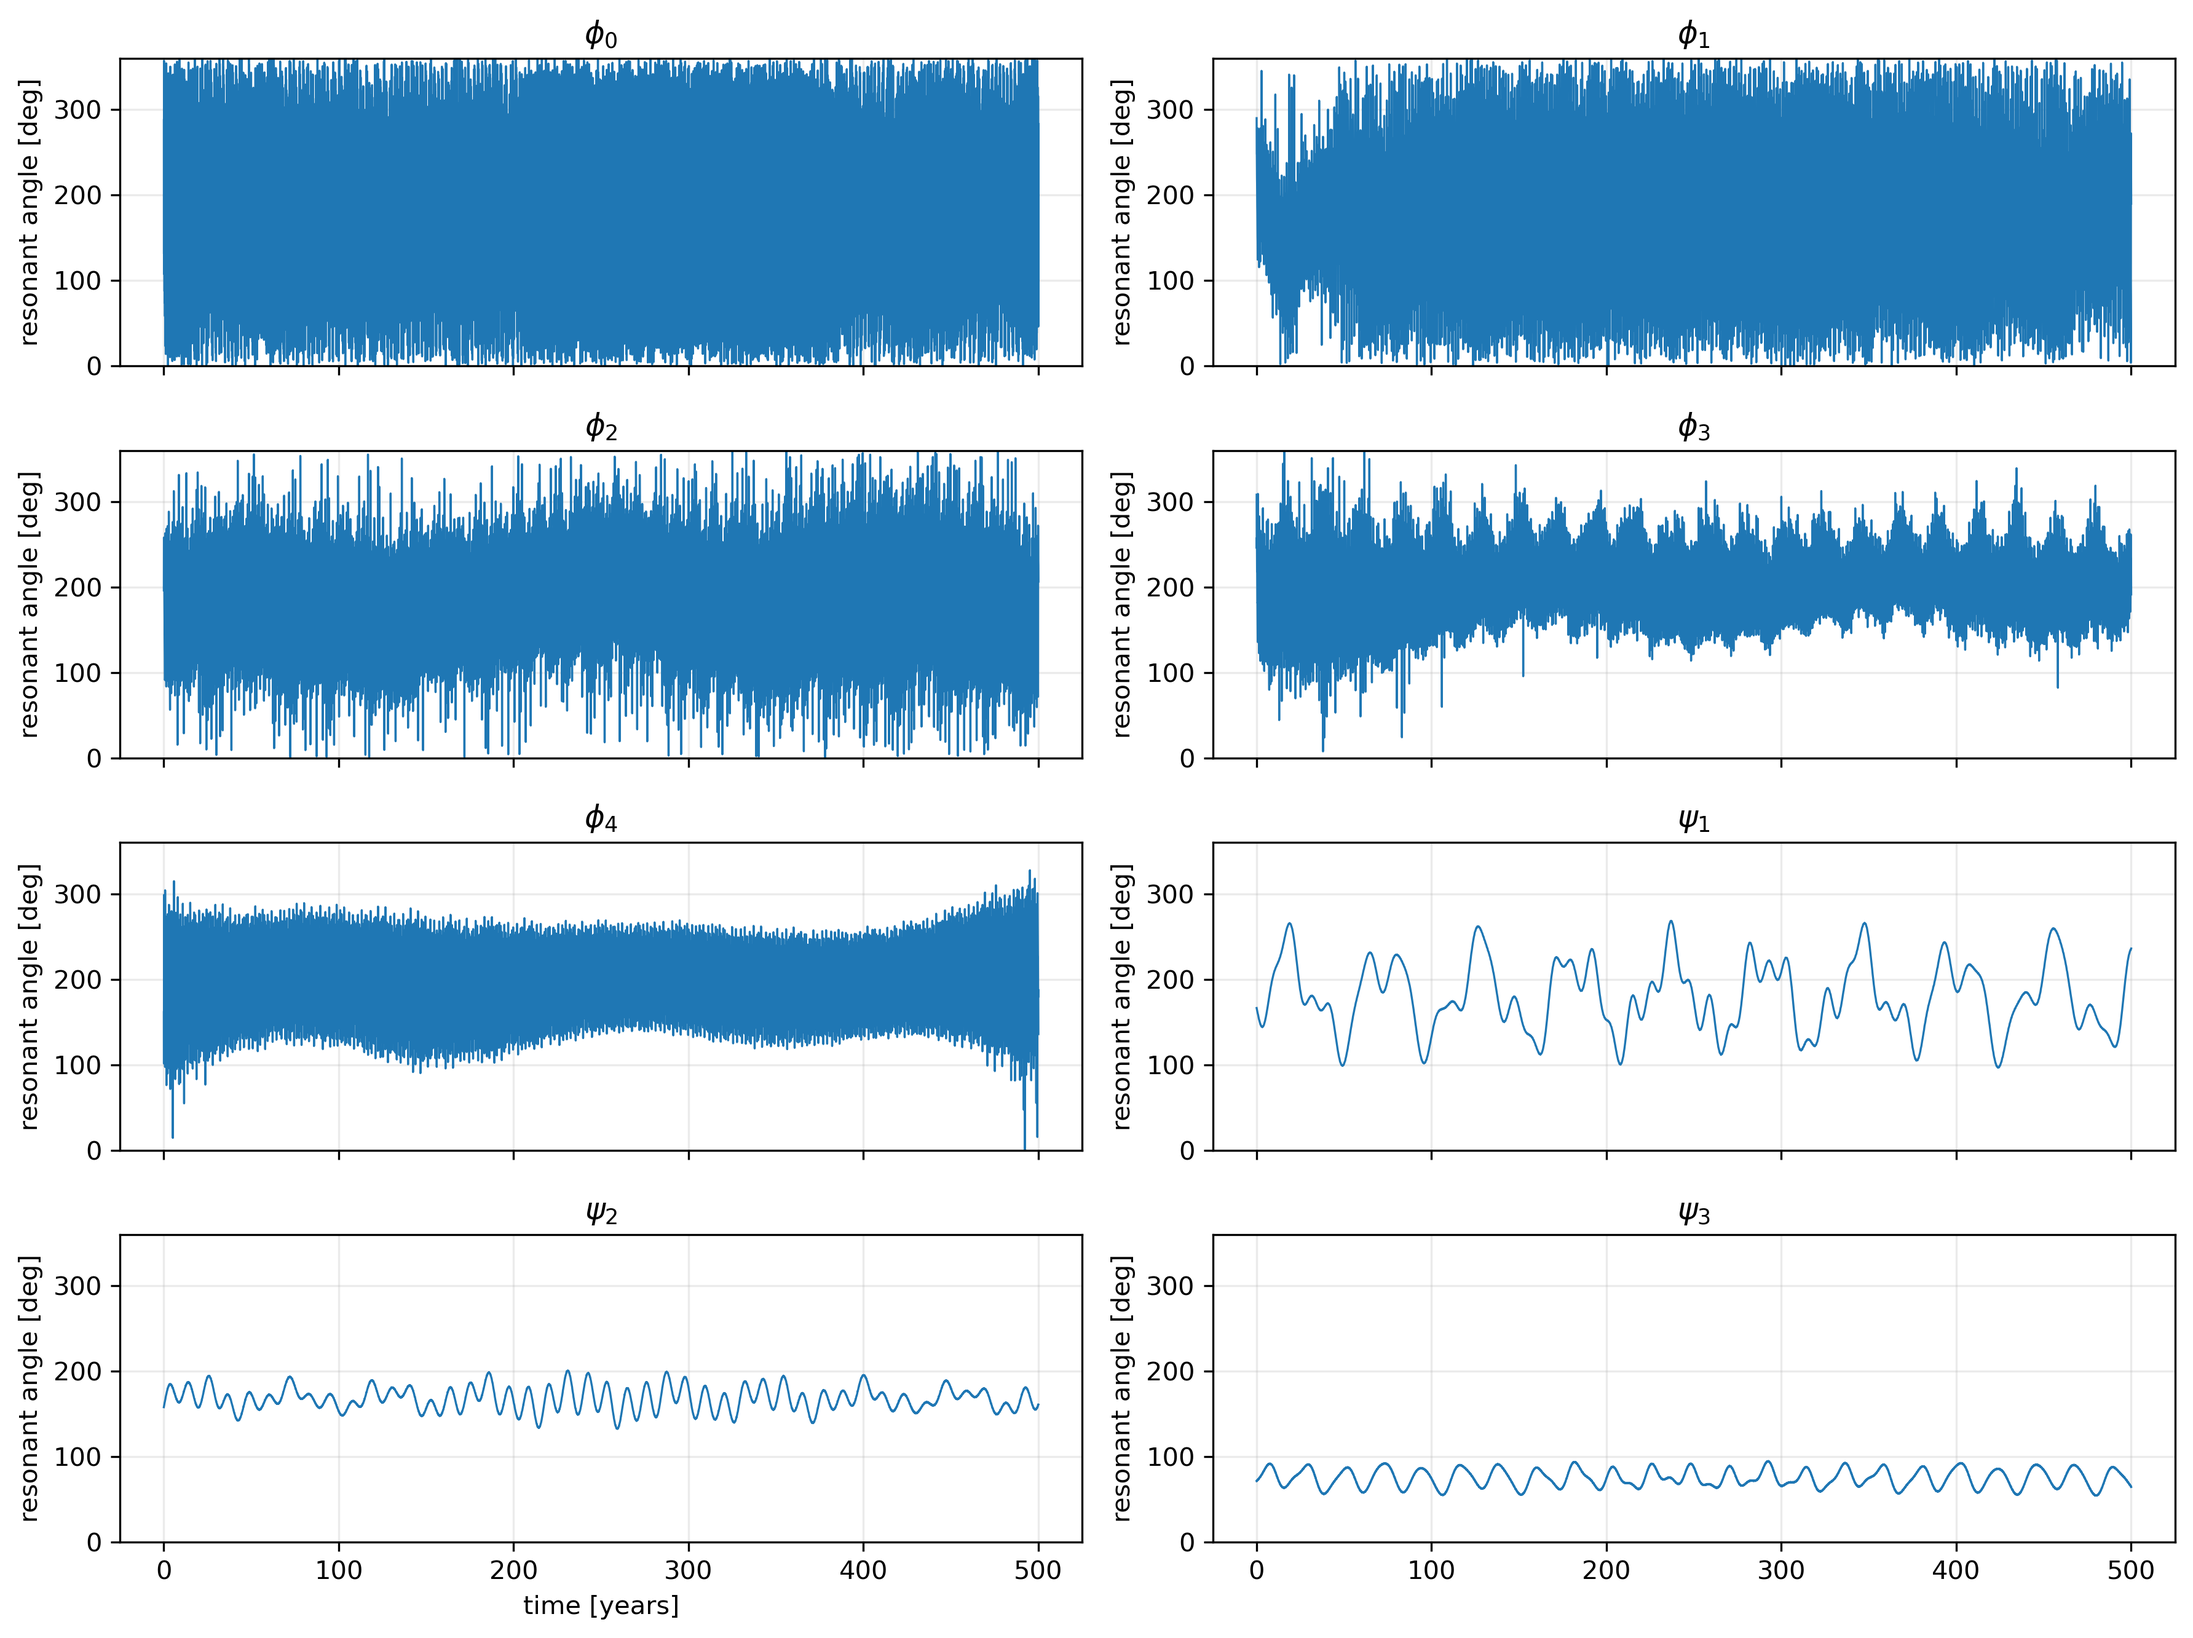
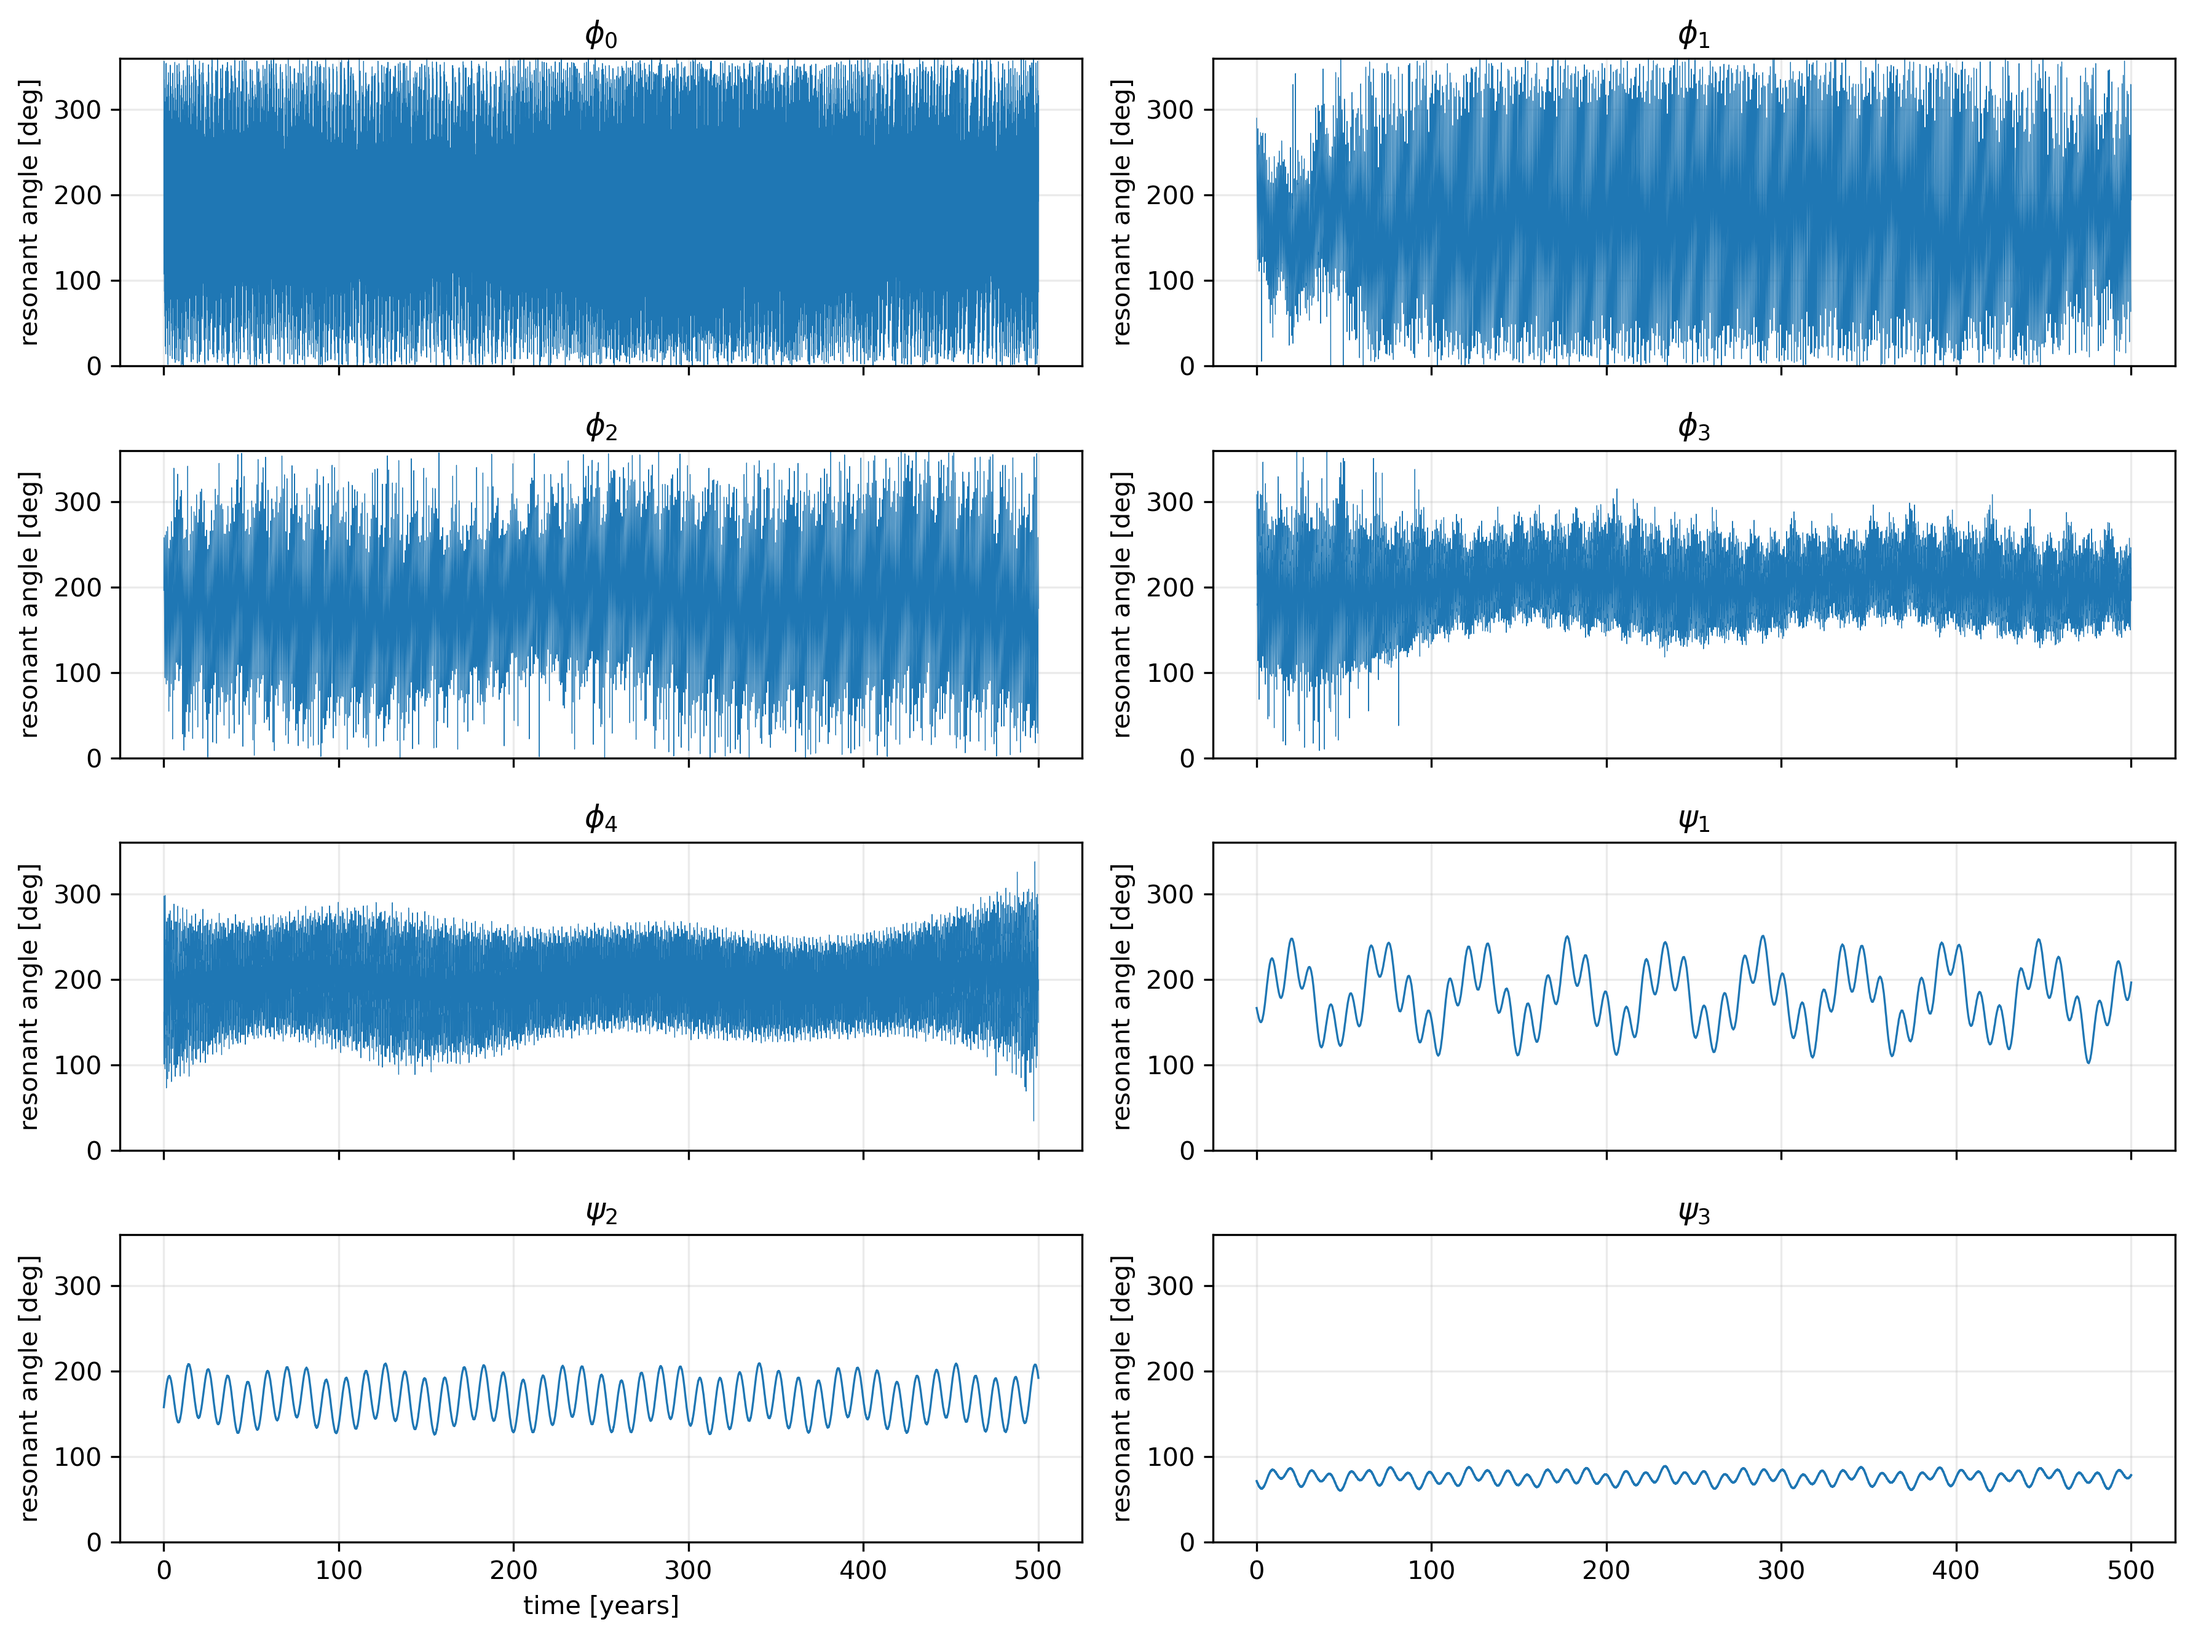
kleine resonance plot Anpassungen

diff --git a/Rebound_simulation/resonance_plot.py b/Rebound_simulation/resonance_plot.py
@@ -2,7 +2,7 @@ import numpy as np
 import matplotlib.pyplot as plt
 import os
 
-m_moon_short = 0.004  # mass of the moon relative to planet f
+m_moon_short = 0.001  # mass of the moon relative to planet f
 
 ##########################################################################################
 # load data
@@ -10,6 +10,15 @@ m_moon_short = 0.004  # mass of the moon relative to planet f
 
 here = os.path.dirname(__file__)
 
+# files without moon
+f_sma = os.path.join(here, 'data_sim/sma_planets.txt')
+f_longitude = os.path.join(here, 'data_sim/l_planets.txt')
+f_omega = os.path.join(here, 'data_sim/omega_planets.txt')
+f_node = os.path.join(here, 'data_sim/orbital_node_planets.txt')
+f_ecc = os.path.join(here, 'data_sim/ecc_planets.txt')
+f_inc = os.path.join(here, 'data_sim/inc_planets.txt')
+
+"""
 # filenames
 f_sma = os.path.join(here, f'data_with_moon/sma_with_moon_m={m_moon_short}.txt')
 f_longitude = os.path.join(here, f'data_with_moon/l_with_moon_m={m_moon_short}.txt')
@@ -17,7 +26,7 @@ f_omega = os.path.join(here, f'data_with_moon/omega_with_moon_m={m_moon_short}.t
 f_node = os.path.join(here, f'data_with_moon/orbital_node_with_moon_m={m_moon_short}.txt')
 f_ecc = os.path.join(here, f'data_with_moon/ecc_with_moon_m={m_moon_short}.txt')
 f_inc = os.path.join(here, f'data_with_moon/inc_with_moon_m={m_moon_short}.txt')
-#f_res_angles = os.path.join(here, 'resonant_angles_with_moon.txt')
+"""
 
 # load
 # shape: (nsteps, nplanets)
@@ -99,7 +108,7 @@ for ax in axes:
 
 for i in range(5):
   ax = axes[i]
-  ax.plot(time_years, angles[i], lw=0.8)
+  ax.plot(time_years, angles[i], lw=0.3)
   ax.set_title(f'$\phi_{i}$')
   ax.set_ylabel('resonant angle [deg]')
 
@@ -117,7 +126,8 @@ for j in range(n_angles, len(axes)):
 axes[6].set_xlabel('time [years]')
 
 plt.tight_layout()
-out = os.path.join(here, f'plots_m={m_moon_short}/all_resonances_m={m_moon_short}.png')
+out = os.path.join(here, 'plots/all_resonances.png')
+#out = os.path.join(here, f'plots_m={m_moon_short}/all_resonances_m={m_moon_short}.png')
 plt.savefig(out, dpi=300, bbox_inches='tight')
 print(f"Saved {out}")
 plt.close()
